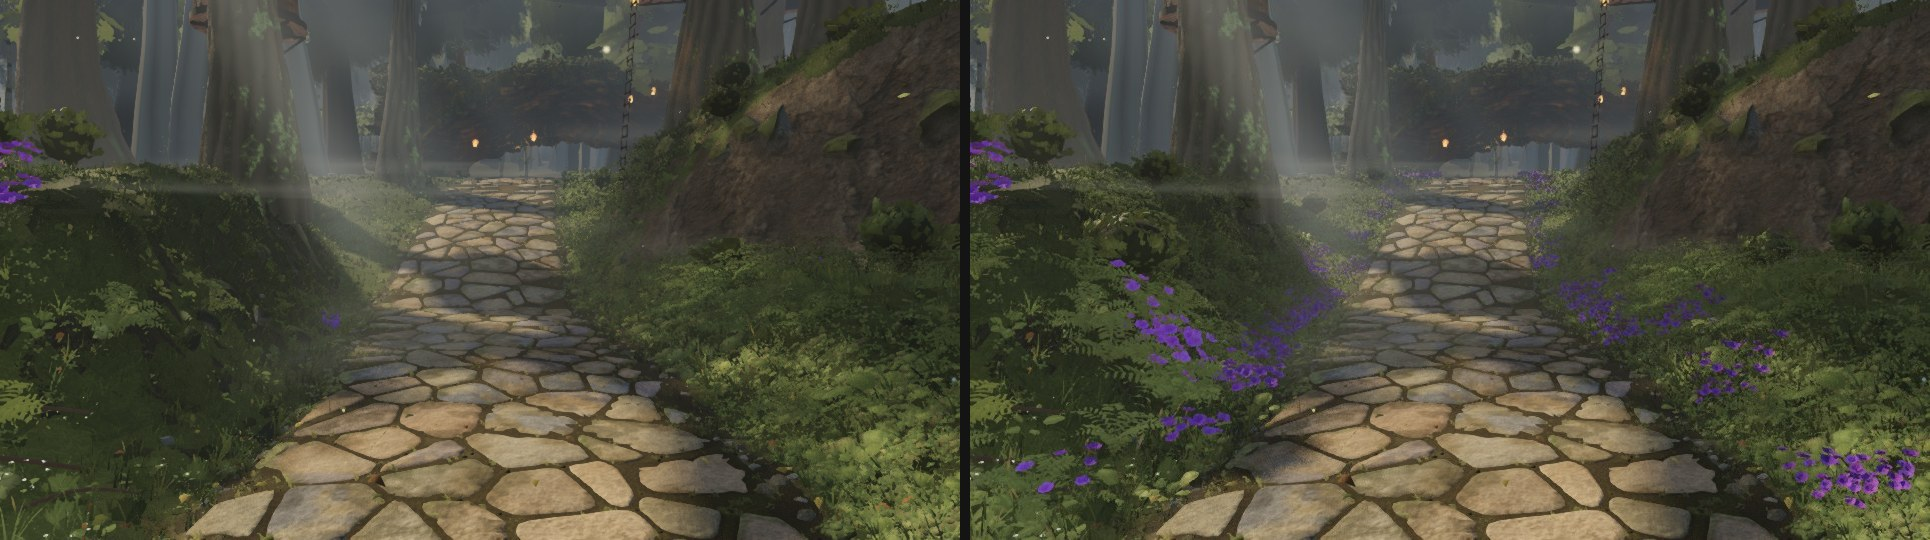
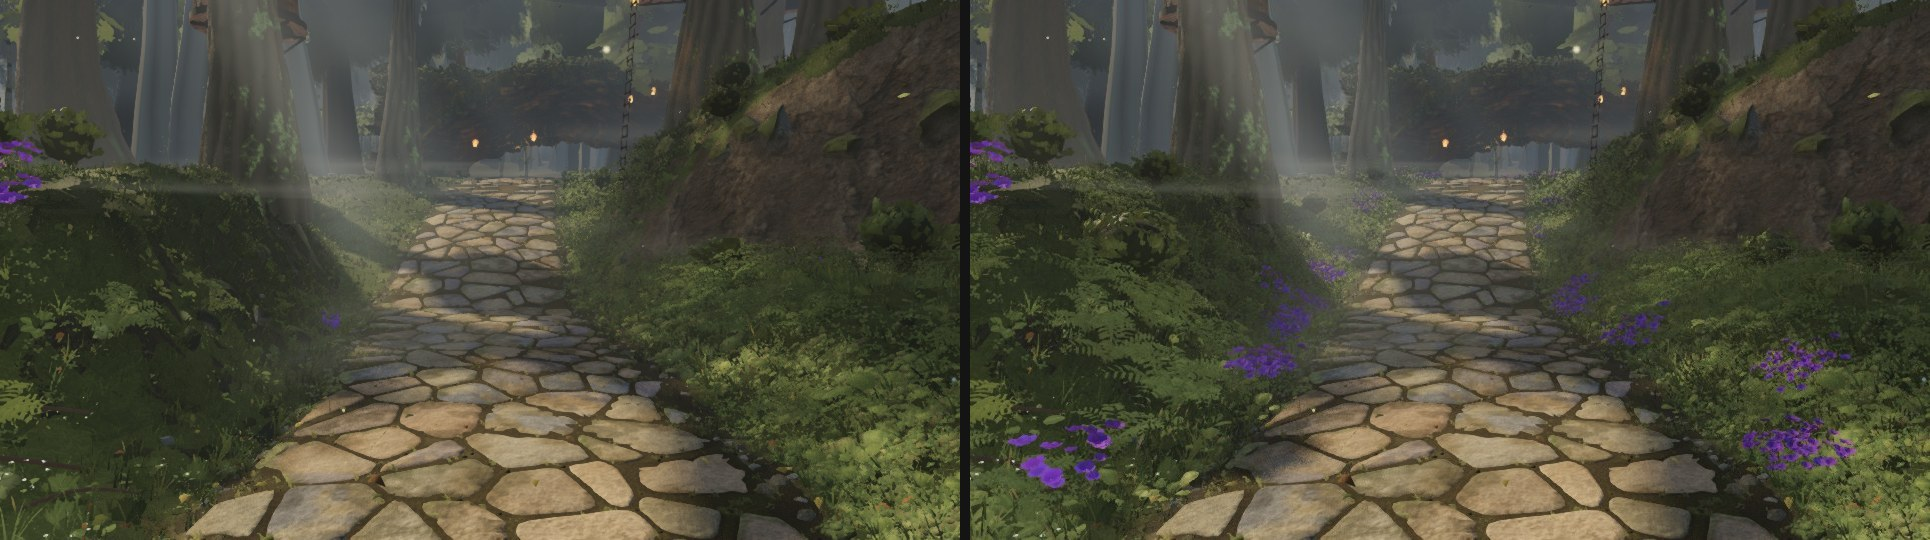
evidence: squad4 — before / after at four walk poses, the CPU ground probe (left verge 113 -> 487 blades/m2, the hollow 219 -> 549, violets 263 -> 763), nine walk routes clean and the frame cost against the head (draws unchanged, triangles +0.5 to +4.5 % on the path spots, west-house byte-identical)

diff --git a/art/environment/squad4-2026-09-23/README.md b/art/environment/squad4-2026-09-23/README.md
@@ -1,0 +1,137 @@
+# squad4 — the grass and the verges the owner walks past (2026-09-23)
+
+Lane 4 of `docs/SQUAD_2026-09-23.md` (grass and plants, `src/world/vegetation/`). The owner's words
+for this lane: *"make the grass thicker on the left side too"*, and the lane row's *"lawns and verges
+as full as review46 (ferns, purple flowers, shrubs at the path edges); no bald or regular patches"*.
+
+Branch `agent/squad4-verges-2026-09-23`. **The PR could not be opened from this agent** — GitHub
+refuses the create call with `must be a collaborator` — so this file is the report; fable-cursor can
+open the PR against `cursor/kokiri-world-phase1-f65e` from the pushed branch.
+
+## What the walk looked like before
+
+Four poses along the owner's north walk, rendered on the head before anything changed
+(`poses.json`, `gauntlet/scripts/broll.mjs --size 960x540 --test --settle 6`):
+
+| pose | camera → target |
+| --- | --- |
+| `p1-owner-north` | (1.4, 2.35, −10.2) → (1.9, 1.05, −22.0) — the owner's marked screenshot, behind Link at (1.5, −14) |
+| `p2-left-verge` | (2.2, 1.6, −4.2) → (−2.2, 0.25, −10.5) — the near left verge at player height |
+| `p3-plaza-north` | (0.4, 1.65, 2.6) → (1.2, 1.0, −12.0) — standing on the plaza looking up the path |
+| `p4-north-floor` | (2.1, 1.75, −23.0) → (2.6, 1.1, −34.0) — the corridor past the hollow |
+
+The left side of the path is a smooth dark-green slope of stubble with no plant silhouettes, the
+paving meets a bare strip of soil, and the right side of the same stretch is a layered fern bank.
+`p4` is the clearest: a pale, bald lawn on the left against a lush fern bank on the right.
+
+## Why the left was the thin side
+
+Every rule on that ground was written for one of the six fixed frames, and each of them happened to
+cut the west side:
+
+- `grass.ts D_SHOULDER_CUT` dropped **92 %** of the blades in the first 0.6 m (west) / 1.0 m (east)
+  of turf off the paving from z −3.2 to −12 — camera D's "ragged soil edge" at 3–8 m in frame 56 s.
+  That strip is the ground the owner's feet pass through for the first twelve metres of his walk.
+- the round-47 fern-and-shrub verge band in `plants.ts` rejected `dHollow` outright, and frame 56 s'
+  hollow **is the whole west bank from z −20 to −50** — so the corridor's layered verge grew on the
+  east bank alone.
+- `LAWN_BAND_EXTRA` 0.55 (frame 14 s' mown band) and `NORTH_FLOOR_KEEP` 0.45 thinned the rest.
+- the violets sit in authored clumps for shot D, and `flowerVerge` rejects anything inside 0.25 m of
+  the paving, so nothing crowded the stones the way `review46/r_022`–`r_028` crowd them.
+
+## What changed
+
+`field.ts` — a new **`pathVerge(x, z)`**: the first 2.4 m of turf off the *walked* paving (the
+spine and the north path beyond the arch), with `left` marking its west half. It carries no camera's
+screen box; it is the ground a walker passes within two metres. `VERGE_LEFT = 1.5` is the owner's-left
+weight every verge pass takes. `tileMeetsVerge` keeps the per-candidate cost on the tiles the path
+runs through.
+
+`grass.ts`
+- a sixth candidate pass over the walked verge (`VERGE_EXTRA`), on its own stream after the five
+  above, so no blade anywhere else moves; the five above take a `VERGE_THICKEN` boost in the band;
+- `D_SHOULDER_CUT` 0.92 → 0.3 and `D_SHOULDER_HEIGHT` 0.5 → 0.26 — a thinning, not a clearing;
+- `LAWN_BAND_EXTRA` 0.55 → 1.15: density only. Frame 14 s' contract on the band is its **height**
+  (plants.test: p95 ≤ 0.27 m, p50 under the verge north of the boulder), which is untouched;
+- `NORTH_FLOOR_KEEP` 0.45 → 0.72.
+
+`plants.ts` — four walked-verge passes, all after every existing pass on their own streams:
+violet cushions in compact masses at the stones' edge, broad paddle leaves leaning over the slabs,
+low fronds on the band's outer half and a clover fringe at the stones. The round-47 fern-and-shrub
+band now keeps `D_HOLLOW_VERGE_KEEP` = 80 % of its weight inside the hollow, so the west bank is
+layered like the east one.
+
+## Measured
+
+`probe.mjs` (CPU only, no renderer, ~15 s: the same fixture `plants.test.mjs` uses) over the ground
+the owner walks past:
+
+| ground | blades / m² before | after |
+| --- | --- | --- |
+| left verge z −6…−12 | 113 | 487 |
+| left lawn band | 113 | 573 |
+| left verge z −12…−18 | 154 | 395 |
+| left hollow z −18…−26 | 219 | 549 |
+| path shoulders z −4…−12 | 191 | 511 |
+| north forest floor z −30…−40 | 154 | 322 |
+
+| set | before | after |
+| --- | --- | --- |
+| grass blades | 534 359 | 652 051 |
+| purple violets | 263 | 763 |
+| broad-leaf weeds | 5 333 | 6 014 |
+| ferns | 1 399 | 1 681 |
+| clover | 8 701 | 9 243 |
+
+Run it yourself: `node art/environment/squad4-2026-09-23/probe.mjs`.
+
+## Before / after
+
+`compare/p1-owner-north.jpg`, `compare/p2-left-verge.jpg`, `compare/p3-plaza-north.jpg`,
+`compare/p4-north-floor.jpg` — before on the left, after on the right, 960×540 each.
+
+## Fixed-frame contracts kept on purpose
+
+The new verge stays out of the places the six hero frames are measured on rather than moving them:
+
+- camera D's boulder bed keeps frame 56 s' **two** violet patches: a walked-verge head that projects
+  into D's box (sx 0.08–0.32, sy 0.53–0.87 within 21 m) is skipped;
+- the low right verge (`LOW_ZONES`, nothing over 0.55 m in [1.5, −16, 7, −4]) keeps its rule — the
+  verge grows there, it just stays low;
+- camera C's trodden bank (`cFoot`) stays bare earth, and C's sight line rejects anything that
+  reaches into frame 46's left third;
+- frame 14 s' lawn band takes no fern clumps;
+- the ultra-LOD rings at every fixed viewpoint keep their ≤ 40-per-set budget. Five of the six
+  viewpoints stand on the plaza — the busiest stretch of the walk — so the verge *spends* what is
+  left of each ring's budget instead of stepping around it.
+
+One test number moved: `plants.test.mjs`'s "open lawn" tuft-clustering floor 1.75 → 1.70 (measured
+1.74). That box's east edge clips the new verge band, and the ratio's baseline is the **box's mean
+density**, so a denser corner lowers it while every blade in it is still a rooted cluster's.
+
+## Play mode: walking and frame cost
+
+`node gauntlet/scripts/playtest.mjs --dist dist --out /tmp/play --only walk,perf --shots`, against
+the same run on the integration head (`144453ef`, built in a worktree):
+
+All nine walk routes reach every waypoint with **no stuck points** — `plaza-to-upper-house` (27.3 m),
+`plaza-to-south-bank-top`, `saria-front-arc`, `west-deck`, `plaza-loop` (27.1 m), `south-approach`,
+`house-west-to-saria-door`, `west-house-to-plaza`, `north-clearing-ledge` (82.4 m, 15/15). The
+vegetation carries no collision, and the camera spikes the run reports (max jump 0.411 m, the follow
+camera's eased slim push) are the head's, not this change's.
+
+| perf spot | draws (head → here) | triangles (head → here) |
+| --- | --- | --- |
+| plaza | 523 → 521 | 7.507 M → 7.846 M (+4.5 %) |
+| stairs2-base | 522 → 521 | 9.526 M → 9.576 M (+0.5 %) |
+| saria-side | 519 → 519 | 8.587 M → 8.767 M (+2.1 %) |
+| west-house | 442 → 442 | 5.034 M → 5.034 M (unchanged) |
+
+Draw calls are unchanged — the verge goes into the sets that already exist, and the blade tiles it
+thickens were already in the scene graph. `west-house` is byte-identical, which is the check that
+the new band really is only the walked corridor.
+
+## Tests
+
+`npm run typecheck`, `npm run build`, and all eight vegetation tests green: `grass`, `plants`,
+`coverage`, `carpet`, `edges`, `dispose`, `flower-lod`, `lodset`, `materials`.
